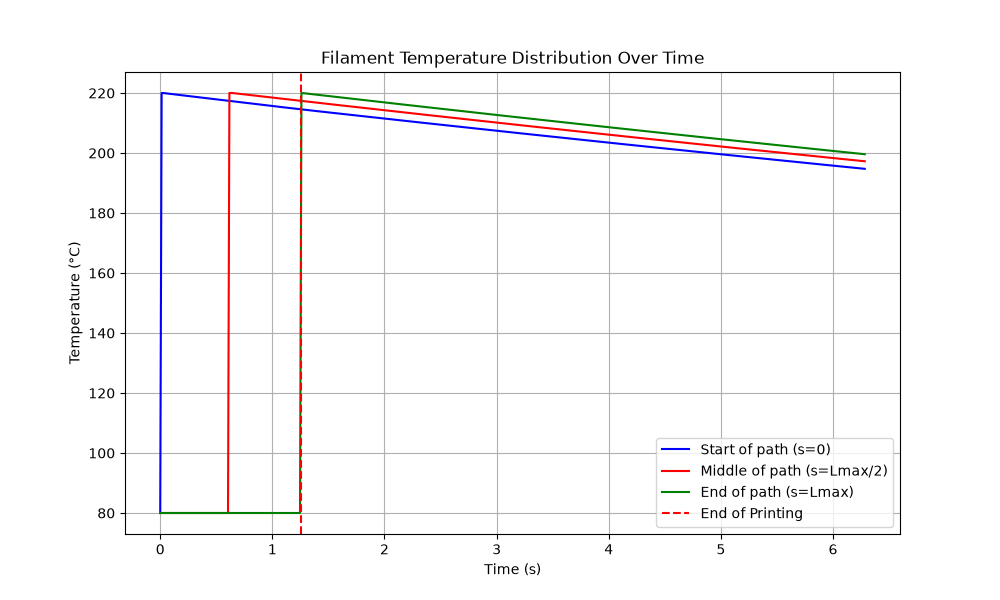
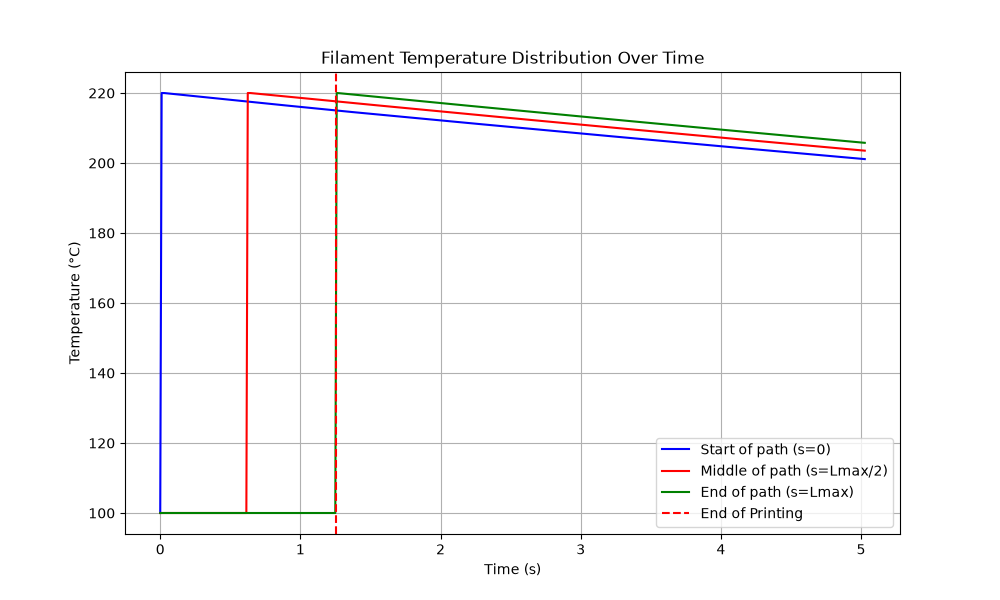
Changes to be committed: 	new file:   Question 1.6 show bump.py 	modified:   Question 1.6.py 	modified:   filament_cooling.png 	new file:   filament_cooling_bump.png

diff --git a/Question 1.6 show bump.py b/Question 1.6 show bump.py
@@ -1,0 +1,108 @@
+import numpy as np
+import matplotlib.pyplot as plt
+from scipy.integrate import solve_ivp
+from dataclasses import dataclass
+
+@dataclass
+class p:
+    v: float = 0.5          #velocity
+    Tplate: float = 100   #plate temperature   
+    Tair: float = 20.0      #air temperature
+    Tn: float = 220.0       #nozzle temperature
+
+    k: float = 400         #thermal conductivity
+    c: float = 1500        #specific heat capacity
+    rho: float = 1040      #density
+
+    hair: float = 10     #convection heat transfer coefficient air
+    hplate: float = 5     #conduction heat transfer coefficient plate
+    A: float = 0.001        #area
+    Lmax: float = 0.2*np.pi #maximum length of the filament
+
+#calculate the fractions with know paramters
+alpha = p.k / (p.c * p.rho)  # thermal diffusivity
+betaair = (3*p.hair)/(p.c*p.rho*p.A)
+betaplate = p.hplate/(p.c*p.rho*p.A)
+
+#Discertisation for the model of lines:
+N = 100
+dd = p.Lmax/(N-1)
+d_nodes = np.linspace(0, p.Lmax, N)  
+
+#Adjust the PDE to make it solvable by solve_ipv
+def pde(t,u):
+    dudt = np.zeros(N)  #placeholders for values of u at every location ds
+    Lt = p.v * t
+
+    #first we assign u[0] and dudt[0] based on the boundary conditions
+    if Lt < dd:
+        #at d=0, we still need to heat up the filament
+        dudt[0] = 1e6 *(p.Tn - u[0])
+    elif Lt < p.Lmax:
+        #at d=0, the filament interacts with air
+        d2u_dd2 = (u[1]-(2*dd*p.hair)/p.k *(u[0]-p.Tair) - 2*u[0] +u[1])/(dd**2)  
+        dudt[0] = alpha*d2u_dd2 - betaair*(u[0]-p.Tair) - betaplate*(u[0]-p.Tplate)
+    else:
+        #at d=0, the filament is connected to the filament at d=N
+        d2u_dd2 = (u[1]-2*u[0] + u[N-1])/(dd**2)
+        dudt[0] = alpha*d2u_dd2 - betaair*(u[0]-p.Tair) - betaplate*(u[0]-p.Tplate)
+    
+
+    #For the other nodes the Lt does not influence the process
+    for i in range(1, N-1):
+        if d_nodes[i] > Lt:
+            #Node has not been touched yet
+            dudt[i] = 0
+        elif d_nodes[i] < Lt and d_nodes[i+1] > Lt:
+                #Node just touched by nozzle
+                dudt[i] = 1e6 *(p.Tn - u[i])
+        elif d_nodes[i+1] < Lt:
+            dudt[i] = alpha* (u[i-1] - 2*u[i] + u[i+1])/(dd**2) - betaair*(u[i]-p.Tair) - betaplate*(u[i]-p.Tplate)
+
+    #Now the last node
+    if d_nodes[N-1] > Lt:
+        #the filament at d=N has not yet been printed
+        dudt[N-1] = 0
+    elif d_nodes[N-1] <= Lt and d_nodes[N-1] + dd >= Lt:
+        dudt[N-1] = 1e6 *(p.Tn - u[N-1])
+    elif d_nodes[N-1]+dd < Lt:
+        #if the filament at d=N has been printed, it is connected tot the filament at d=0
+        d2u_dd2 = (u[0]-2*u[N-1] + u[N-2])/(dd**2)
+        dudt[N-1] = alpha*d2u_dd2 - betaair*(u[N-1]-p.Tair) - betaplate*(u[N-1]-p.Tplate)
+        
+    return dudt
+
+#define the initial condition, all nodes are at 0 degrees
+u0 = np.full(N, p.Tplate) 
+
+#define the simulation time, and timesteps. Choose a time longer than the printing time 
+#and make sure there are more timesteps than d nodes
+t_print = p.Lmax/p.v
+t = np.linspace(0, 2*t_print, 500)
+
+#solve, choose LSODA method as it does not use too many iterations,
+#but will switch if the the problem is stiff, which is often the case when transforming the PDE
+#using the method of lines into ODEs
+sol = solve_ivp(pde, [0, t[-1]], u0, method='LSODA', max_step = dd/p.v, t_eval = t)
+print(sol)
+
+
+plt.figure(figsize=(10,6))
+plt.plot(sol.t, sol.y[0], label = 'Start of path (s=0)', color='blue')
+plt.plot(sol.t, sol.y[(N-1)//2], label = 'Middle of path (s=Lmax/2)', color='red')
+plt.plot(sol.t, sol.y[N-1], label = 'End of path (s=Lmax)', color='green')
+plt.axvline(x=t_print, color = 'r', linestyle = '--', label = "End of Printing")
+plt.xlabel('Time (s)')
+plt.ylabel('Temperature (°C)')
+plt.title('Temperature at the start of the filament over time')
+plt.title('Filament Temperature Distribution Over Time')
+plt.legend()
+plt.grid(True)
+plt.savefig('filament_cooling_bump.png')
+        
+         
+        
+
+
+
+

diff --git a/Question 1.6.py b/Question 1.6.py
@@ -7,7 +7,7 @@ from dataclasses import dataclass
 @dataclass
 class p:
     v: float = 0.5          #velocity
-    Tplate: float = 80   #plate temperature   
+    Tplate: float = 100   #plate temperature   
     Tair: float = 20.0      #air temperature
     Tn: float = 220.0       #nozzle temperature
 
@@ -16,7 +16,7 @@ class p:
     rho: float = 1040      #density
 
     hair: float = 10     #convection heat transfer coefficient air
-    hplate: float = 5     #conduction heat transfer coefficient plate
+    hplate: float = 1     #conduction heat transfer coefficient plate
     A: float = 0.001        #area
     Lmax: float = 0.2*np.pi #maximum length of the filament
 
@@ -79,7 +79,7 @@ u0 = np.full(N, p.Tplate)
 #define the simulation time, and timesteps. Choose a time longer than the printing time 
 #and make sure there are more timesteps than d nodes
 t_print = p.Lmax/p.v
-t = np.linspace(0, 5*t_print, 500)
+t = np.linspace(0, 4*t_print, 500)
 
 #solve, choose LSODA method as it does not use too many iterations,
 #but will switch if the the problem is stiff, which is often the case when transforming the PDE
